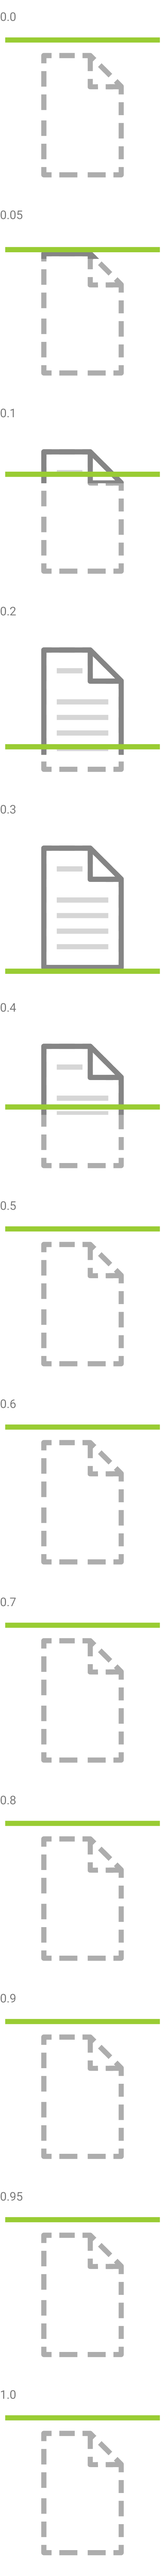
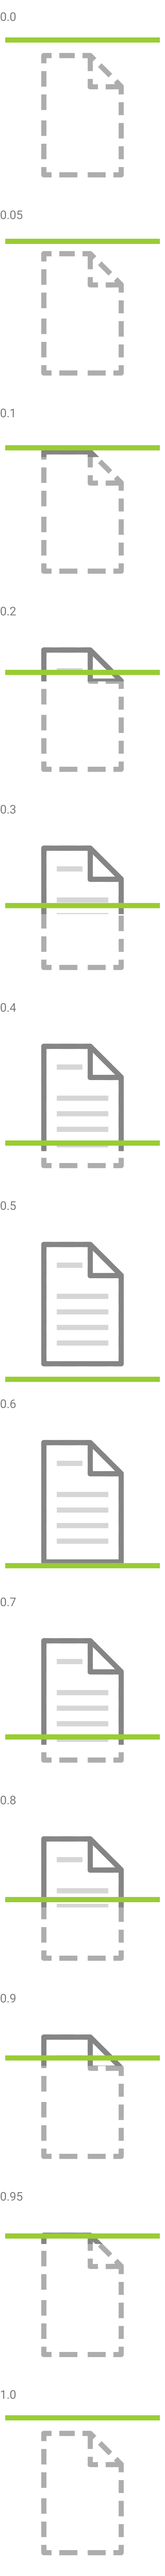
Don't apply time stretch to a layer transform
Fixes #548

diff --git a/lottie/src/main/java/com/airbnb/lottie/model/layer/BaseLayer.java b/lottie/src/main/java/com/airbnb/lottie/model/layer/BaseLayer.java
@@ -98,7 +98,6 @@ public abstract class BaseLayer implements DrawingContent, BaseKeyframeAnimation
 
     this.transform = layerModel.getTransform().createAnimation();
     transform.addListener(this);
-    transform.addAnimationsToLayer(this);
 
     if (layerModel.getMasks() != null && !layerModel.getMasks().isEmpty()) {
       this.mask = new MaskKeyframeAnimation(layerModel.getMasks());
@@ -390,6 +389,8 @@ public abstract class BaseLayer implements DrawingContent, BaseKeyframeAnimation
   }
 
   void setProgress(@FloatRange(from = 0f, to = 1f) float progress) {
+    // Time stretch should not be applied to the layer transform.
+    transform.setProgress(progress);
     if (layerModel.getTimeStretch() != 0) {
       progress /= layerModel.getTimeStretch();
     }

diff --git a/lottie/src/main/java/com/airbnb/lottie/animation/keyframe/TransformKeyframeAnimation.java b/lottie/src/main/java/com/airbnb/lottie/animation/keyframe/TransformKeyframeAnimation.java
@@ -67,6 +67,20 @@ public class TransformKeyframeAnimation {
     }
   }
 
+  public void setProgress(float progress) {
+    anchorPoint.setProgress(progress);
+    position.setProgress(progress);
+    scale.setProgress(progress);
+    rotation.setProgress(progress);
+    opacity.setProgress(progress);
+    if (startOpacity != null) {
+      startOpacity.setProgress(progress);
+    }
+    if (endOpacity != null) {
+      endOpacity.setProgress(progress);
+    }
+  }
+
   public BaseKeyframeAnimation<?, Integer> getOpacity() {
     return opacity;
   }
